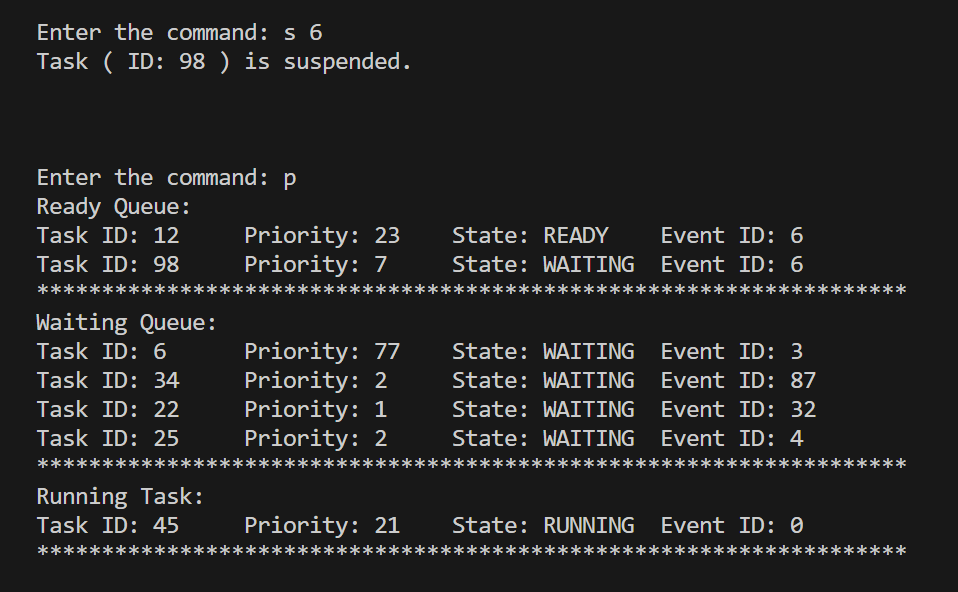
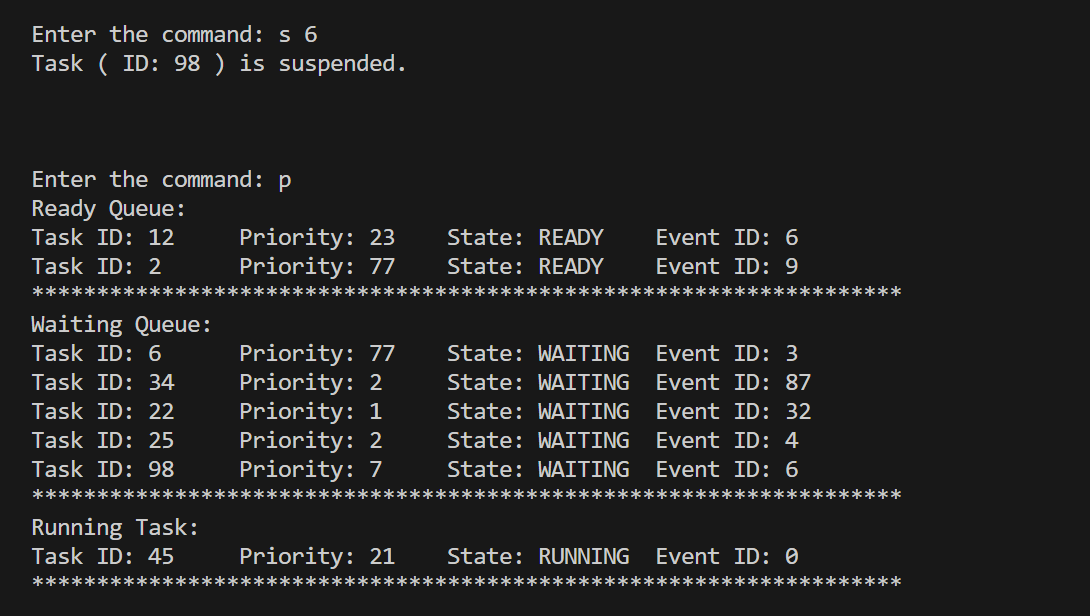
final commit
- Fixed e command bug
- read me updated

Changed region(s): [[0.0303, 0.2736, 0.9384, 0.973], [0.0303, 0.0304, 0.4238, 0.1216]]

diff --git a/Lab01/scheduler.c b/Lab01/scheduler.c
@@ -205,11 +205,18 @@ void event_trigger(struct Queue* waiting_queue, struct Queue* ready_queue, int e
             temp->task_state = READY;
             if(prev == NULL){
                 waiting_queue->head = waiting_queue->head->next;
+                temp->next = NULL;
                 enqueue_sorted(ready_queue, temp);
                 temp = waiting_queue->head;
             }
             else{
+
+                if (temp == waiting_queue->tail){
+                    waiting_queue->tail = prev;
+                }
+                
                 prev->next = temp->next;
+                temp->next = NULL;
                 enqueue_sorted(ready_queue, temp);
                 temp = prev->next;
             }
@@ -227,6 +234,8 @@ void suspend_event(struct Node* running_node, struct Queue* ready_queue, struct 
     // if given task id is running . shift it to waiting queue
     if(running_node->event_id == event_id){
         running_node->task_state = WAITING;
+        running_node->event_id = event_id;
+        running_node->next = NULL;
         enqueue(waiting_queue, running_node);
         printf("Task ( ID: %d ) is suspended.\n", running_node->task_id);
     }
@@ -310,7 +319,8 @@ struct Node* update_running_node(struct Node* running_node, struct Queue* ready_
                 struct Node* temp = dequeue(ready_queue);
                 temp->task_state = RUNNING;
                 temp->next = NULL;
-                return temp;
+                running_node = temp;
+                return running_node;
             }
             else{
                 return NULL;
@@ -322,7 +332,8 @@ struct Node* update_running_node(struct Node* running_node, struct Queue* ready_
                 temp->next = NULL;
                 running_node->task_state = READY;
                 enqueue_sorted(ready_queue, running_node);
-                return temp;
+                running_node = temp;
+                return running_node;
             }else{
                 return running_node;
             }
@@ -368,7 +379,7 @@ void run_command(char* command, struct Queue* ready_queue, struct Queue* waiting
         break;
     case 'd':  d_command(command, ready_queue, waiting_queue, running_node);
         break; 
-    case 'w':w_command(command, ready_queue, waiting_queue, running_node);  
+    case 'w': w_command(command, ready_queue, waiting_queue);  
         break;
     case 'e': e_command(command, ready_queue, waiting_queue, running_node);
         break;
@@ -544,7 +555,7 @@ void d_command(char* command, struct Queue* ready_queue, struct Queue* waiting_q
 }
 
 // runs w command
-void w_command(char* command, struct Queue* ready_queue, struct Queue* waiting_queue, struct Node* running_node){
+void w_command(char* command, struct Queue* ready_queue, struct Queue* waiting_queue){
     
     int i=2, space_count = 0;
     if(command[1] != ' '){

diff --git a/Lab01/scheduler.h b/Lab01/scheduler.h
@@ -5,7 +5,7 @@
 #define RUNNING 0
 #define READY 1
 #define WAITING 2
-
+#define TRUE 1
 #define DEFAULT_EVENT_ID 0
 
 // NODE STRUCTURE
@@ -55,7 +55,7 @@ void p_command(char* command, struct Queue* ready_queue, struct Queue* waiting_q
 void n_command(char* command, struct Queue* ready_queue, struct Queue* waiting_queue, struct Node* running_node);
 void e_command(char* command, struct Queue* ready_queue, struct Queue* waiting_queue, struct Node* running_node);
 void d_command(char* command, struct Queue* ready_queue, struct Queue* waiting_queue, struct Node* running_node);
-void w_command(char* command, struct Queue* ready_queue, struct Queue* waiting_queue, struct Node* running_node);
+void w_command(char* command, struct Queue* ready_queue, struct Queue* waiting_queue);
 void q_command(char* command, struct Queue* ready_queue, struct Queue* waiting_queue, struct Node* running_node);
 void s_command(char* command, struct Queue* ready_queue, struct Queue* waiting_queue, struct Node* running_node);
 

diff --git a/Lab01/main.c b/Lab01/main.c
@@ -18,7 +18,7 @@ int main(){
     // Reading the initial state of the tasks from the file
     read_initial_state(waiting_queue, ready_queue, "init_tasks.txt");
     running_node = dequeue(ready_queue);  
-    running_node->task_state = DEFAULT_EVENT_ID;
+    running_node->task_state = RUNNING;
     running_node->next = NULL; 
 
     // Printing initial state
@@ -30,7 +30,7 @@ int main(){
 
     // MAIN LOOP
     
-    while(1){
+    while(TRUE){
         // Taking command from the user as string
         char command[30];
         printf("Enter the command: ");
@@ -38,8 +38,6 @@ int main(){
 
         // Checking the command and performing the required operation
         run_command(command, ready_queue, waiting_queue, running_node);
-        printf("_____DEBUG_____");
-        print_system_tasks(ready_queue, waiting_queue, running_node);
         running_node = update_running_node(running_node, ready_queue);
         printf("\n\n\n");
     }

diff --git a/Lab01/README.md b/Lab01/README.md
@@ -20,7 +20,7 @@ Any task that is in the CPU will either be found in any one of the following:-
 ### More about task states
 State of the tasks changes according to the image given below:-
 
-<img src="image.png" alt="Alt Text" width="500">
+<img src=".\assets\image.png" alt="Alt Text" width="500">
 
 1. __Running__: CPU is currently executing the task
 2. __Ready__: Needs CPU time but higher priority task is running. Eligible to compete with other Ready tasks for CPU time.
@@ -118,14 +118,22 @@ This command suspends the running task if its event ID matches, thereafter, it p
 
 <img src=".\assets\s_command_1.png" alt="Alt Text" width="700">
 
+Suspended the running task by giving its event ID.
+
+<img src=".\assets\s_command_2.png" alt="Alt Text" width="700">
+
+Error displayed when trying to suspend an event which is not running.
+
 ### q command
 This commands frees up the memory and quits the program.
 
-<img src="1.png" alt="Alt Text" width="700">
+<img src=".\assets\q_command.png" alt="Alt Text" width="700">
 
 ### Invalid commands
 
-
+Few examples of invalid errors are listed below:-
+<img src=".\assets\invalid_commands.png" alt="Alt Text" width="700">
+ 
 
 ## Author
 UJJWAL CHAUDHARY, M. Tech. ESE, IISc Bengaluru
